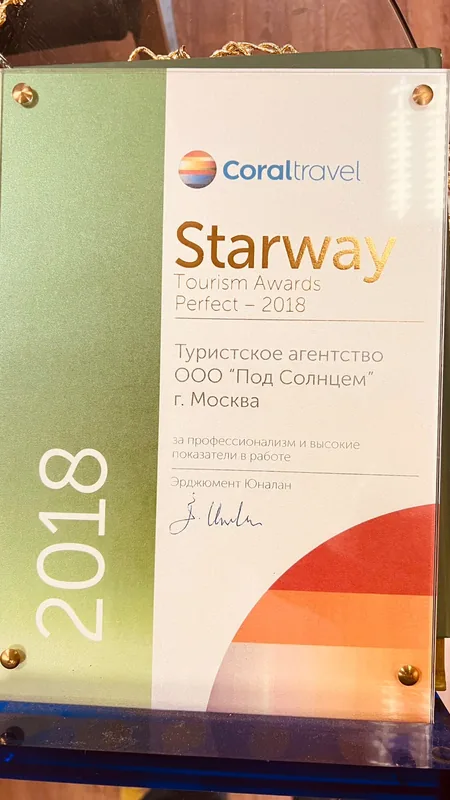
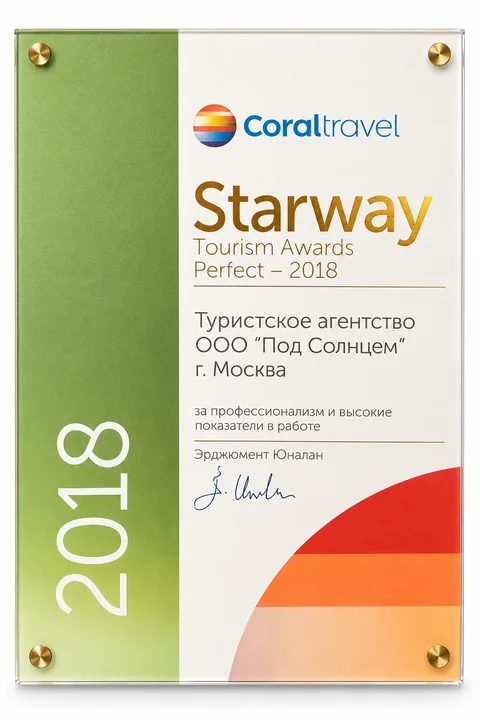
fix: use clean award images and neutral wording in the Awards section
- replaced the five full-size WebP files and five thumbnails with the
  prepared clean visual versions (awards on a light background, no
  furniture; the TUI award is already upright, no rotation applied)
- card paths, order, titles and years unchanged; thumbnails keep the
  whole award, gallery boxes are 2:3 with object-fit: contain
- intro text is now "Награды и дипломы компании"; removed
  "(фотография)" from alt texts because the files are processed visual
  versions, not exact photos or scans

diff --git a/index.html b/index.html
@@ -303,7 +303,7 @@ footer{background:var(--navy-900);color:var(--slate-100);padding:40px 0 18px;mar
 .about-offices{display:grid;grid-template-columns:1fr 1fr;gap:16px;margin:14px 0 20px}
 .about-awards{display:flex;flex-wrap:wrap;justify-content:center;gap:16px;margin:14px 0 22px}
 .award-card{flex:0 0 calc((100% - 32px)/3);display:flex;flex-direction:column;gap:8px;text-align:center;color:inherit;text-decoration:none}
-.award-card img{width:100%;height:auto;aspect-ratio:9/16;object-fit:contain;background:var(--white);border:1px solid var(--sand-300);border-radius:var(--radius-md);transition:box-shadow .15s}
+.award-card img{width:100%;height:auto;aspect-ratio:2/3;object-fit:contain;background:var(--white);border:1px solid var(--sand-300);border-radius:var(--radius-md);transition:box-shadow .15s}
 .award-card:hover img,.award-card:focus-visible img{box-shadow:var(--shadow-card-hover)}
 .award-org{font-size:13px;font-weight:600;color:var(--ink-900);line-height:1.3}
 .award-name{font-size:11.5px;color:var(--ink-600);line-height:1.35;margin-top:-6px}
@@ -814,13 +814,13 @@ footer{background:var(--navy-900);color:var(--slate-100);padding:40px 0 18px;mar
     <p>Юридическое лицо — <strong>ООО «Под Солнцем»</strong>. Офисы компании работают под обозначением сети <strong>Coral Travel Elite Service</strong>.</p>
 
     <h3>Награды</h3>
-    <p>Фотографии наград и дипломов. Нажмите на карточку — крупная версия откроется в новой вкладке.</p>
+    <p>Награды и дипломы компании. Нажмите на карточку — крупная версия откроется в новой вкладке.</p>
     <div class="about-awards">
-      <a class="award-card" href="assets/images/award-starway-best-2025.webp" target="_blank" rel="noopener"><img src="assets/images/award-starway-best-2025-thumb.webp" alt="Награда Coral Travel — Starway Best 2025 (фотография)" width="450" height="800" loading="lazy" decoding="async"><span class="award-org">Coral Travel</span><span class="award-name">Starway Best 2025</span><span class="award-open">Открыть крупнее ↗</span></a>
-      <a class="award-card" href="assets/images/award-tui-golden-awards-2019.webp" target="_blank" rel="noopener"><img src="assets/images/award-tui-golden-awards-2019-thumb.webp" alt="Награда TUI — Golden Awards 2019, лидер по продажам круизов (фотография)" width="450" height="800" loading="lazy" decoding="async"><span class="award-org">TUI</span><span class="award-name">Golden Awards 2019 — лидер по продажам круизов</span><span class="award-open">Открыть крупнее ↗</span></a>
-      <a class="award-card" href="assets/images/award-starway-perfect-2021.webp" target="_blank" rel="noopener"><img src="assets/images/award-starway-perfect-2021-thumb.webp" alt="Награда Coral Travel — Starway Perfect 2021 (фотография)" width="450" height="800" loading="lazy" decoding="async"><span class="award-org">Coral Travel</span><span class="award-name">Starway Perfect 2021</span><span class="award-open">Открыть крупнее ↗</span></a>
-      <a class="award-card" href="assets/images/award-starway-perfect-2018.webp" target="_blank" rel="noopener"><img src="assets/images/award-starway-perfect-2018-thumb.webp" alt="Награда Coral Travel — Starway Perfect 2018 (фотография)" width="450" height="800" loading="lazy" decoding="async"><span class="award-org">Coral Travel</span><span class="award-name">Starway Perfect 2018</span><span class="award-open">Открыть крупнее ↗</span></a>
-      <a class="award-card" href="assets/images/award-pac-group-2016.webp" target="_blank" rel="noopener"><img src="assets/images/award-pac-group-2016-thumb.webp" alt="Диплом PAC Group, 2016 (фотография)" width="450" height="800" loading="lazy" decoding="async"><span class="award-org">PAC Group</span><span class="award-name">Диплом 2016</span><span class="award-open">Открыть крупнее ↗</span></a>
+      <a class="award-card" href="assets/images/award-starway-best-2025.webp" target="_blank" rel="noopener"><img src="assets/images/award-starway-best-2025-thumb.webp" alt="Награда Coral Travel — Starway Best 2025" width="480" height="720" loading="lazy" decoding="async"><span class="award-org">Coral Travel</span><span class="award-name">Starway Best 2025</span><span class="award-open">Открыть крупнее ↗</span></a>
+      <a class="award-card" href="assets/images/award-tui-golden-awards-2019.webp" target="_blank" rel="noopener"><img src="assets/images/award-tui-golden-awards-2019-thumb.webp" alt="Награда TUI — Golden Awards 2019, лидер по продажам круизов" width="480" height="720" loading="lazy" decoding="async"><span class="award-org">TUI</span><span class="award-name">Golden Awards 2019 — лидер по продажам круизов</span><span class="award-open">Открыть крупнее ↗</span></a>
+      <a class="award-card" href="assets/images/award-starway-perfect-2021.webp" target="_blank" rel="noopener"><img src="assets/images/award-starway-perfect-2021-thumb.webp" alt="Награда Coral Travel — Starway Perfect 2021" width="405" height="720" loading="lazy" decoding="async"><span class="award-org">Coral Travel</span><span class="award-name">Starway Perfect 2021</span><span class="award-open">Открыть крупнее ↗</span></a>
+      <a class="award-card" href="assets/images/award-starway-perfect-2018.webp" target="_blank" rel="noopener"><img src="assets/images/award-starway-perfect-2018-thumb.webp" alt="Награда Coral Travel — Starway Perfect 2018" width="480" height="720" loading="lazy" decoding="async"><span class="award-org">Coral Travel</span><span class="award-name">Starway Perfect 2018</span><span class="award-open">Открыть крупнее ↗</span></a>
+      <a class="award-card" href="assets/images/award-pac-group-2016.webp" target="_blank" rel="noopener"><img src="assets/images/award-pac-group-2016-thumb.webp" alt="Диплом PAC Group, 2016" width="480" height="661" loading="lazy" decoding="async"><span class="award-org">PAC Group</span><span class="award-name">Диплом 2016</span><span class="award-open">Открыть крупнее ↗</span></a>
     </div>
 
     <h3>Наша команда</h3>
